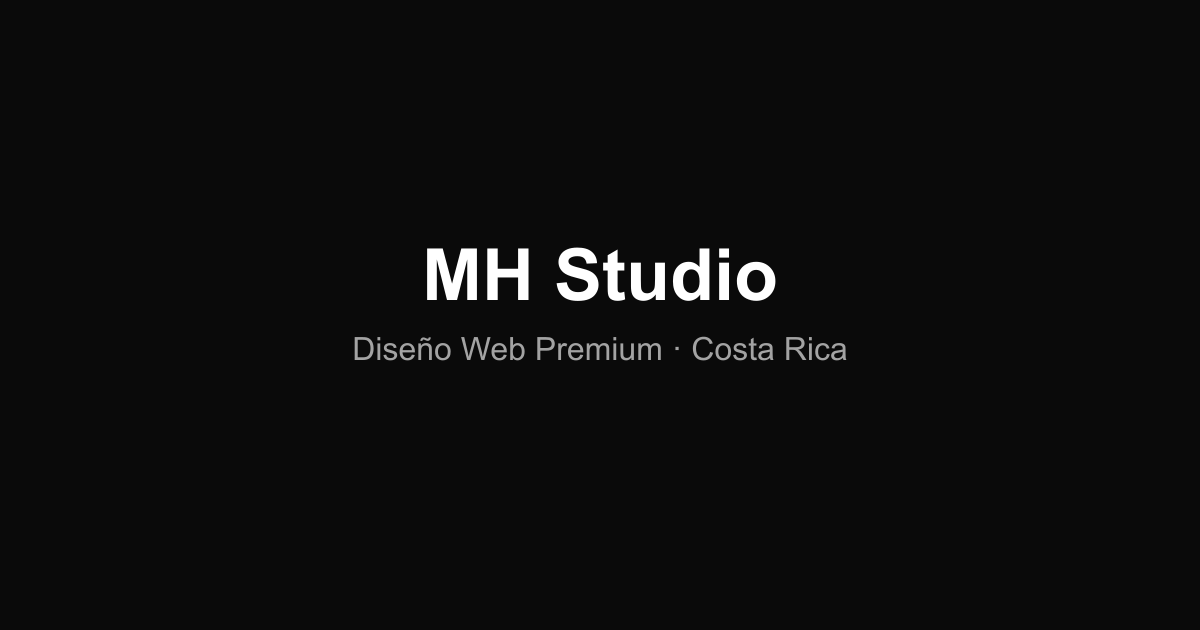
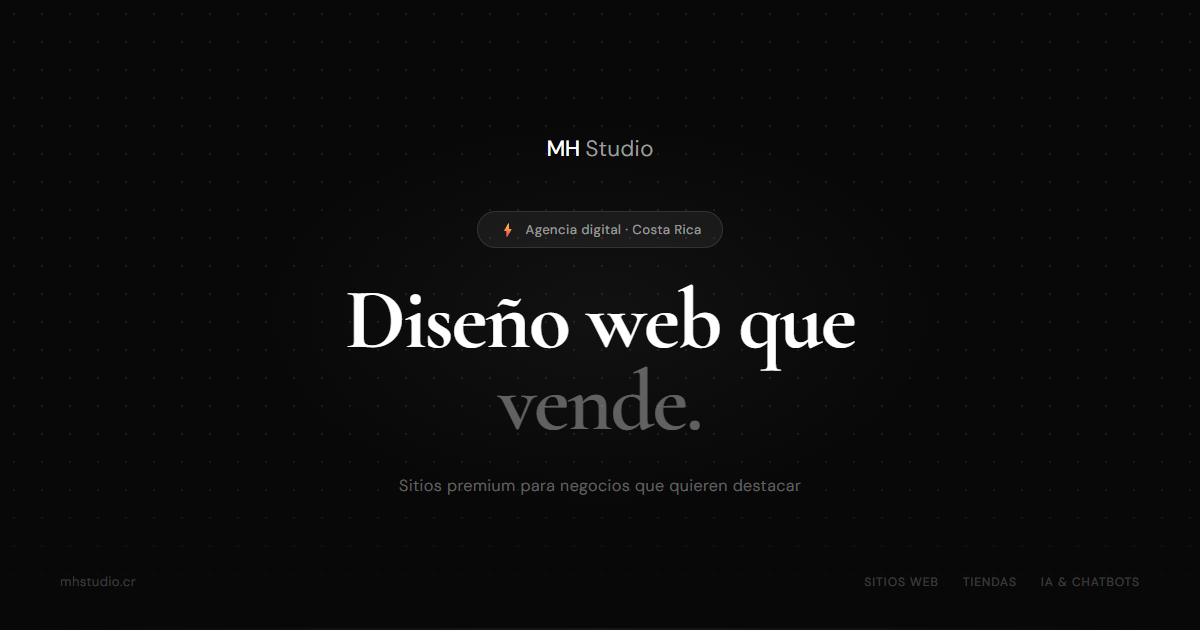
feat: update Open Graph metadata and add new og-image asset
Adds public/og/og-image.png as the new social preview image, updates
layout.tsx Open Graph/Twitter metadata to point at it with refreshed
title and description copy, and includes a Puppeteer script to
regenerate the OG image from HTML.

diff --git a/src/app/layout.tsx b/src/app/layout.tsx
@@ -22,28 +22,28 @@ export const metadata: Metadata = {
     google: "xVWOhXeMAwp8pIJbZr9McJvn3w2tj_12Uz2eADf7o_g",
   },
   openGraph: {
-    title: "MH Studio — Diseño Web Premium en Costa Rica",
+    title: "MH Studio — Diseño web que vende",
     description:
-      "Creamos sitios web profesionales para restaurantes, tiendas y emprendedores en Costa Rica. Diseño premium, resultados reales.",
-    url: "https://mhstudio-digital.github.io/mh-studio-web",
+      "Creamos sitios premium para restaurantes, tiendas y emprendedores en Costa Rica.",
+    url: "https://mhstudio-digital.github.io/mh-studio-web/",
     siteName: "MH Studio",
     locale: "es_CR",
     type: "website",
     images: [
       {
-        url: "/og-image.png",
+        url: "https://mhstudio-digital.github.io/mh-studio-web/og/og-image.png",
         width: 1200,
         height: 630,
-        alt: "MH Studio — Diseño Web Premium en Costa Rica",
+        alt: "MH Studio — Diseño web que vende",
       },
     ],
   },
   twitter: {
     card: "summary_large_image",
-    title: "MH Studio — Diseño Web Premium en Costa Rica",
+    title: "MH Studio — Diseño web que vende",
     description:
-      "Creamos sitios web profesionales para restaurantes, tiendas y emprendedores en Costa Rica. Diseño premium, resultados reales.",
-    images: ["/og-image.png"],
+      "Creamos sitios premium para restaurantes, tiendas y emprendedores en Costa Rica.",
+    images: ["https://mhstudio-digital.github.io/mh-studio-web/og/og-image.png"],
   },
 };
 
